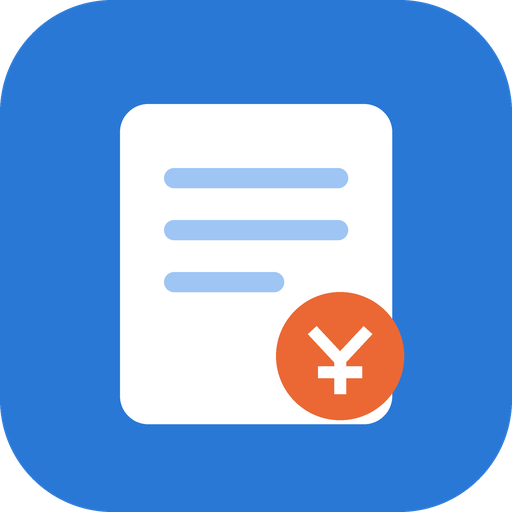
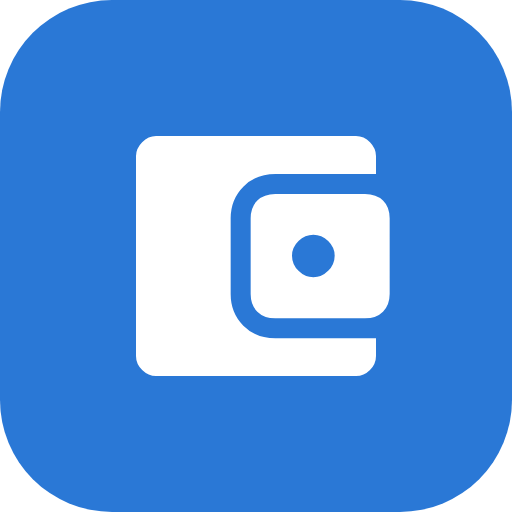
アイコンを Google の Material Symbols にそろえる
- 絵文字（銀行・現金・余り・コピー・注意など）、月の矢印、タブ、チェック、
  追加・並べ替えのアイコンを Material Symbols（Rounded）に置き換える
- 口座のアイコンを丸い背景付きで左の列に出す
- アプリのアイコン（ホーム画面用）を account_balance_wallet で作り直す
- アイコンの形のデータはオフラインでも出るよう index.html に入れる

Claude-Session: https://claude.ai/code/session_01UyJUQVVbfKXTdYzEWyREp5

Changed region(s): [[0.2188, 0.1875, 0.8125, 0.8438]]

diff --git a/index.html b/index.html
@@ -84,18 +84,36 @@ main { max-width: 560px; margin: 0 auto; padding: 12px 16px 24px; }
 .list li + li { border-top: 1px solid var(--grid); }
 .acc { display: flex; align-items: center; gap: 4px; min-height: 64px; }
 .check { flex: none; width: 44px; height: 44px; border: 0; background: none; padding: 0; display: flex; align-items: center; justify-content: center; margin-left: -10px; }
-.check i { width: 26px; height: 26px; border-radius: 13px; border: 2px solid var(--axis); display: flex; align-items: center; justify-content: center; font-style: normal; color: transparent; font-size: 15px; font-weight: 900; }
+.check i { width: 26px; height: 26px; border-radius: 13px; border: 2px solid var(--axis); display: flex; align-items: center; justify-content: center; font-style: normal; }
 .check[aria-checked="true"] i { background: var(--check); border-color: var(--check); color: #fff; }
 .row-btn { flex: 1; min-width: 0; display: flex; align-items: center; gap: 8px; background: none; border: 0; padding: 10px 0; text-align: left; min-height: 56px; }
 .row-btn .t { flex: 1; min-width: 0; }
 .row-btn .n { font-size: 16px; font-weight: 700; }
-.row-btn .n .verb { font-weight: 400; font-size: 14px; color: var(--text-2); margin-left: 4px; }
+.row-btn .n .verb { font-weight: 400; font-size: 14px; color: var(--text-2); margin-left: 4px; white-space: nowrap; display: inline-block; }
 .row-btn .s { font-size: 12px; color: var(--muted); white-space: nowrap; overflow: hidden; text-overflow: ellipsis; }
 .row-btn .a { font-size: 18px; font-weight: 700; white-space: nowrap; }
 .row-btn .a.zero { color: var(--muted); font-weight: 400; }
 .row-btn .go { color: var(--muted); font-size: 20px; }
 .acc[data-done="true"] .a { color: var(--muted); text-decoration: line-through; }
 .item-btn { width: 100%; }
+.ms { width: 1.25em; height: 1.25em; fill: currentColor; flex: none; vertical-align: -0.28em; }
+.icon-btn { display: inline-flex; align-items: center; justify-content: center; }
+.icon-btn .ms { width: 28px; height: 28px; }
+.tabbar button .ms { width: 26px; height: 26px; }
+.tabbar button .ms.on, .tabbar button[aria-current="page"] .ms:not(.on) { display: none; }
+.tabbar button[aria-current="page"] .ms.on { display: block; }
+.acc-ic { width: 32px; height: 32px; border-radius: 16px; background: var(--surface-2); color: var(--accent); display: inline-flex; align-items: center; justify-content: center; margin-right: 2px; vertical-align: middle; flex: none; }
+.acc-ic .ms { width: 20px; height: 20px; vertical-align: 0; }
+.check i .ms { width: 18px; height: 18px; fill: transparent; vertical-align: 0; }
+.check[aria-checked="true"] i .ms { fill: #fff; }
+.add { display: flex; align-items: center; gap: 8px; }
+.add .ms, .btn .ms { width: 22px; height: 22px; vertical-align: 0; }
+.btn { gap: 6px; }
+.sum-row .go.ms { width: 22px; height: 22px; fill: var(--muted); margin-left: 2px; vertical-align: -0.15em; }
+.row-btn .go.ms { width: 22px; height: 22px; fill: var(--muted); }
+.sum-hint .ms { width: 18px; height: 18px; vertical-align: -0.2em; }
+.lbl-ic { display: flex !important; align-items: center; gap: 6px; }
+.lbl-ic .ms { width: 20px; height: 20px; fill: var(--accent); }
 .left-tag { color: var(--good-text); font-weight: 700; margin-right: 6px; }
 .left-field { margin-top: 14px; }
 .hint { color: var(--muted); font-size: 12px; }
@@ -149,9 +167,9 @@ input:focus, select:focus, textarea:focus, button:focus-visible { outline: 2px s
 
 <header class="app-header">
   <div class="month-nav">
-    <button class="icon-btn" id="prevMonth" aria-label="前の月">‹</button>
+    <button class="icon-btn" id="prevMonth" aria-label="前の月"><svg class="ms" viewBox="0 -960 960 960" aria-hidden="true"><path d="m406-481 177 177q9 9 8.5 21t-9.5 21q-9 9-21.5 9t-21.5-9L341-460q-5-5-7-10t-2-11q0-6 2-11t7-10l199-199q9-9 21.5-9t21.5 9q9 9 9 21.5t-9 21.5L406-481Z"/></svg></button>
     <h1><button id="monthLabel" aria-label="今月に戻る"></button></h1>
-    <button class="icon-btn" id="nextMonth" aria-label="次の月">›</button>
+    <button class="icon-btn" id="nextMonth" aria-label="次の月"><svg class="ms" viewBox="0 -960 960 960" aria-hidden="true"><path d="M530-481 353-658q-9-9-8.5-21t9.5-21q9-9 21.5-9t21.5 9l198 198q5 5 7 10t2 11q0 6-2 11t-7 10L396-261q-9 9-21 8.5t-21-9.5q-9-9-9-21.5t9-21.5l176-176Z"/></svg></button>
   </div>
 </header>
 
@@ -162,10 +180,8 @@ input:focus, select:focus, textarea:focus, button:focus-visible { outline: 2px s
 
 <nav class="tabbar" aria-label="メニュー">
   <ul>
-    <li><button data-view="plan" aria-current="page">
-      <svg viewBox="0 0 24 24" fill="none" stroke="currentColor" stroke-width="2" stroke-linecap="round" stroke-linejoin="round" aria-hidden="true"><rect x="4" y="3" width="16" height="18" rx="2"/><path d="M8 8h8M8 12h8M8 16h5"/></svg>今月</button></li>
-    <li><button data-view="settings">
-      <svg viewBox="0 0 24 24" fill="none" stroke="currentColor" stroke-width="2" stroke-linecap="round" aria-hidden="true"><path d="M4 6h16M4 12h16M4 18h16"/><circle cx="9" cy="6" r="2" fill="var(--surface)"/><circle cx="15" cy="12" r="2" fill="var(--surface)"/><circle cx="7" cy="18" r="2" fill="var(--surface)"/></svg>設定</button></li>
+    <li><button data-view="plan" aria-current="page"><svg class="ms" viewBox="0 -960 960 960" aria-hidden="true"><path d="M180-80q-24 0-42-18t-18-42v-620q0-24 18-42t42-18h65v-28q0-13.6 9.2-22.8 9.2-9.2 22.8-9.2 14.02 0 23.51 9.2Q310-861.6 310-848v28h340v-28q0-13.6 9.2-22.8 9.2-9.2 22.8-9.2 14.03 0 23.51 9.2Q715-861.6 715-848v28h65q24 0 42 18t18 42v620q0 24-18 42t-42 18H180Zm0-60h600v-430H180v430Zm0-490h600v-130H180v130Zm0 0v-130 130Zm300 230q-17 0-28.5-11.5T440-440q0-17 11.5-28.5T480-480q17 0 28.5 11.5T520-440q0 17-11.5 28.5T480-400Zm-160 0q-17 0-28.5-11.5T280-440q0-17 11.5-28.5T320-480q17 0 28.5 11.5T360-440q0 17-11.5 28.5T320-400Zm320 0q-17 0-28.5-11.5T600-440q0-17 11.5-28.5T640-480q17 0 28.5 11.5T680-440q0 17-11.5 28.5T640-400ZM480-240q-17 0-28.5-11.5T440-280q0-17 11.5-28.5T480-320q17 0 28.5 11.5T520-280q0 17-11.5 28.5T480-240Zm-160 0q-17 0-28.5-11.5T280-280q0-17 11.5-28.5T320-320q17 0 28.5 11.5T360-280q0 17-11.5 28.5T320-240Zm320 0q-17 0-28.5-11.5T600-280q0-17 11.5-28.5T640-320q17 0 28.5 11.5T680-280q0 17-11.5 28.5T640-240Z"/></svg><svg class="ms on" viewBox="0 -960 960 960" aria-hidden="true"><path d="M180-80q-24 0-42-18t-18-42v-620q0-24 18-42t42-18h65v-28q0-13.6 9.2-22.8 9.2-9.2 22.8-9.2 14.02 0 23.51 9.2Q310-861.6 310-848v28h340v-28q0-13.6 9.2-22.8 9.2-9.2 22.8-9.2 14.03 0 23.51 9.2Q715-861.6 715-848v28h65q24 0 42 18t18 42v620q0 24-18 42t-42 18H180Zm0-60h600v-430H180v430Zm300-260q-17 0-28.5-11.5T440-440q0-17 11.5-28.5T480-480q17 0 28.5 11.5T520-440q0 17-11.5 28.5T480-400Zm-160 0q-17 0-28.5-11.5T280-440q0-17 11.5-28.5T320-480q17 0 28.5 11.5T360-440q0 17-11.5 28.5T320-400Zm320 0q-17 0-28.5-11.5T600-440q0-17 11.5-28.5T640-480q17 0 28.5 11.5T680-440q0 17-11.5 28.5T640-400ZM480-240q-17 0-28.5-11.5T440-280q0-17 11.5-28.5T480-320q17 0 28.5 11.5T520-280q0 17-11.5 28.5T480-240Zm-160 0q-17 0-28.5-11.5T280-280q0-17 11.5-28.5T320-320q17 0 28.5 11.5T360-280q0 17-11.5 28.5T320-240Zm320 0q-17 0-28.5-11.5T600-280q0-17 11.5-28.5T640-320q17 0 28.5 11.5T680-280q0 17-11.5 28.5T640-240Z"/></svg>今月</button></li>
+    <li><button data-view="settings"><svg class="ms" viewBox="0 -960 960 960" aria-hidden="true"><path d="M421-80q-14 0-25-9t-13-23l-15-94q-19-7-40-19t-37-25l-86 40q-14 6-28 1.5T155-226L97-330q-8-13-4.5-27t15.5-23l80-59q-2-9-2.5-20.5T185-480q0-9 .5-20.5T188-521l-80-59q-12-9-15.5-23t4.5-27l58-104q8-13 22-17.5t28 1.5l86 40q16-13 37-25t40-18l15-95q2-14 13-23t25-9h118q14 0 25 9t13 23l15 94q19 7 40.5 18.5T669-710l86-40q14-6 27.5-1.5T804-734l59 104q8 13 4.5 27.5T852-580l-80 57q2 10 2.5 21.5t.5 21.5q0 10-.5 21t-2.5 21l80 58q12 8 15.5 22.5T863-330l-58 104q-8 13-22 17.5t-28-1.5l-86-40q-16 13-36.5 25.5T592-206l-15 94q-2 14-13 23t-25 9H421Zm15-60h88l14-112q33-8 62.5-25t53.5-41l106 46 40-72-94-69q4-17 6.5-33.5T715-480q0-17-2-33.5t-7-33.5l94-69-40-72-106 46q-23-26-52-43.5T538-708l-14-112h-88l-14 112q-34 7-63.5 24T306-642l-106-46-40 72 94 69q-4 17-6.5 33.5T245-480q0 17 2.5 33.5T254-413l-94 69 40 72 106-46q24 24 53.5 41t62.5 25l14 112Zm44-210q54 0 92-38t38-92q0-54-38-92t-92-38q-54 0-92 38t-38 92q0 54 38 92t92 38Zm0-130Z"/></svg><svg class="ms on" viewBox="0 -960 960 960" aria-hidden="true"><path d="M421-80q-14 0-25-9t-13-23l-15-94q-19-7-40-19t-37-25l-86 40q-14 6-28 1.5T155-226L97-330q-8-13-4.5-27t15.5-23l80-59q-2-9-2.5-20.5T185-480q0-9 .5-20.5T188-521l-80-59q-12-9-15.5-23t4.5-27l58-104q8-13 22-17.5t28 1.5l86 40q16-13 37-25t40-18l15-95q2-14 13-23t25-9h118q14 0 25 9t13 23l15 94q19 7 40.5 18.5T669-710l86-40q14-6 27.5-1.5T804-734l59 104q8 13 4.5 27.5T852-580l-80 57q2 10 2.5 21.5t.5 21.5q0 10-.5 21t-2.5 21l80 58q12 8 15.5 22.5T863-330l-58 104q-8 13-22 17.5t-28-1.5l-86-40q-16 13-36.5 25.5T592-206l-15 94q-2 14-13 23t-25 9H421Zm59-270q54 0 92-38t38-92q0-54-38-92t-92-38q-54 0-92 38t-38 92q0 54 38 92t92 38Z"/></svg>設定</button></li>
   </ul>
 </nav>
 
@@ -185,7 +201,10 @@ input:focus, select:focus, textarea:focus, button:focus-visible { outline: 2px s
    ========================================================= */
 const STORAGE_KEY = 'kakeibo.v2';
 const THEME_KEY = 'kakeibo.theme';
-const KIND = { bank: { label: '銀行口座', icon: '🏦' }, cash: { label: '現金（手持ち）', icon: '💴' } };
+// アイコンは Google の Material Symbols（Rounded・Apache License 2.0）
+const ICONS = {"arrow_upward": "M450-686 223-459q-9 9-21 9t-21-9q-9-9-9-21t9-21l278-278q5-5 10-7t11-2q6 0 11 2t10 7l278 278q9 9 9 21t-9 21q-9 9-21 9t-21-9L510-686v496q0 13-8.5 21.5T480-160q-13 0-21.5-8.5T450-190v-496Z", "account_balance": "M212-271v-279q0-12.75 8.68-21.38 8.67-8.62 21.5-8.62 12.82 0 21.32 8.62 8.5 8.63 8.5 21.38v279q0 12.75-8.68 21.37-8.67 8.63-21.5 8.63-12.82 0-21.32-8.63-8.5-8.62-8.5-21.37Zm242 0v-279q0-12.75 8.68-21.38 8.67-8.62 21.5-8.62 12.82 0 21.32 8.62 8.5 8.63 8.5 21.38v279q0 12.75-8.68 21.37-8.67 8.63-21.5 8.63-12.82 0-21.32-8.63-8.5-8.62-8.5-21.37ZM110-121q-12.75 0-21.37-8.68-8.63-8.67-8.63-21.5 0-12.82 8.63-21.32Q97.25-181 110-181h740q12.75 0 21.38 8.68 8.62 8.67 8.62 21.5 0 12.82-8.62 21.32-8.63 8.5-21.38 8.5H110Zm578-150v-279q0-12.75 8.68-21.38 8.67-8.62 21.5-8.62 12.82 0 21.32 8.62 8.5 8.63 8.5 21.38v279q0 12.75-8.68 21.37-8.67 8.63-21.5 8.63-12.82 0-21.32-8.63-8.5-8.62-8.5-21.37Zm166-369H103q-9.58 0-16.29-6.71Q80-653.42 80-663v-17q0-6 3.5-11.5T92-700l358-204q14.17-8 30-8t30 8l357 203q6 4 9.5 10t3.5 13.5v10.23q0 11.59-7.47 19.43Q865.05-640 854-640Zm-640-60h532-532Zm0 0h532L480-852 214-700Z", "payments": "M540-420q-50 0-85-35t-35-85q0-50 35-85t85-35q50 0 85 35t35 85q0 50-35 85t-85 35ZM220-280q-24.75 0-42.37-17.63Q160-315.25 160-340v-400q0-24.75 17.63-42.38Q195.25-800 220-800h640q24.75 0 42.38 17.62Q920-764.75 920-740v400q0 24.75-17.62 42.37Q884.75-280 860-280H220Zm100-60h440q0-42 29-71t71-29v-200q-42 0-71-29t-29-71H320q0 42-29 71t-71 29v200q42 0 71 29t29 71Zm450 180H100q-24.75 0-42.37-17.63Q40-195.25 40-220v-430q0-12.75 8.68-21.38 8.67-8.62 21.5-8.62 12.82 0 21.32 8.62 8.5 8.63 8.5 21.38v430h670q12.75 0 21.38 8.68 8.62 8.67 8.62 21.5 0 12.82-8.62 21.32-8.63 8.5-21.38 8.5ZM220-340v-400 400Z", "help": "M484.03-247Q500-247 511-258.03q11-11.03 11-27T510.97-312q-11.03-11-27-11T457-311.97q-11 11.03-11 27T457.03-258q11.03 11 27 11Zm-3.76 167q-82.74 0-155.5-31.5Q252-143 197.5-197.5t-86-127.34Q80-397.68 80-480.5t31.5-155.66Q143-709 197.5-763t127.34-85.5Q397.68-880 480.5-880t155.66 31.5Q709-817 763-763t85.5 127Q880-563 880-480.27q0 82.74-31.5 155.5Q817-252 763-197.68q-54 54.31-127 86Q563-80 480.27-80Zm.23-60Q622-140 721-239.5t99-241Q820-622 721.19-721T480-820q-141 0-240.5 98.81T140-480q0 141 99.5 240.5t241 99.5Zm-.5-340Zm2.77-180Q513-660 536-641.5q23 18.5 23 47.2 0 26.3-15.65 45.73Q527.7-529.14 508-512q-23 19-40 42.38-17 23.39-17 52.62 0 11 8.4 17.5T479-393q12 0 19.88-8 7.87-8 10.12-20 3-21 16-38t30.23-30.78Q580-510 596-537q16-27 16-58.61 0-50.39-37.5-83.89T485.55-713Q450-713 417-698t-54 44q-7 10-6.5 21.5t9.47 18.5q11.41 8 23.65 5 12.23-3 20.38-14 12.75-17.9 31.88-27.45Q461-660 482.77-660Z", "savings": "M230-120q-21 0-39.49-13.96Q172.02-147.93 166-168q-25-86-41.54-148.46-16.54-62.46-26.37-109.68-9.82-47.22-13.95-83.79Q80-546.49 80-580q0-92 64-156t156-64h200q27-36 68.5-58t91.5-22q25 0 42.5 17.5T720-820q0 6-1.5 12t-3.5 11q-4 11-7.5 22t-5.5 24l91 91h57q12.75 0 21.38 8.62Q880-642.75 880-630v227q0 10.24-5.5 18.12Q869-377 859-374l-91.93 30.3L713-163q-6.03 19.61-21.84 31.31Q675.34-120 655-120H540q-24.75 0-42.37-17.63Q480-155.25 480-180v-20h-80v20q0 24.75-17.62 42.37Q364.75-120 340-120H230Zm-5-60h115v-80h200v80h115l63-210 102-35v-175h-52L640-728q1-17 5.5-41.5T658-824q-43 11-76 33t-48 51H300q-66.29 0-113.14 46.86Q140-646.29 140-580q0 42 22 146.5T225-180Zm415-340q17 0 28.5-11.5T680-560q0-17-11.5-28.5T640-600q-17 0-28.5 11.5T600-560q0 17 11.5 28.5T640-520ZM490-620q12.75 0 21.38-8.68 8.62-8.67 8.62-21.5 0-12.82-8.62-21.32-8.63-8.5-21.38-8.5H350q-12.75 0-21.37 8.68-8.63 8.67-8.63 21.5 0 12.82 8.63 21.32 8.62 8.5 21.37 8.5h140Zm-10 118Z", "content_copy": "M300-200q-24 0-42-18t-18-42v-560q0-24 18-42t42-18h440q24 0 42 18t18 42v560q0 24-18 42t-42 18H300Zm0-60h440v-560H300v560ZM180-80q-24 0-42-18t-18-42v-590q0-12.75 8.68-21.38 8.67-8.62 21.5-8.62 12.82 0 21.32 8.62 8.5 8.63 8.5 21.38v590h470q12.75 0 21.38 8.68 8.62 8.67 8.62 21.5 0 12.82-8.62 21.32Q662.75-80 650-80H180Zm120-180v-560 560Z", "warning": "M92-120q-9 0-15.65-4.13Q69.7-128.25 66-135q-4.17-6.6-4.58-14.3Q61-157 66-165l388-670q5-8 11.5-11.5T480-850q8 0 14.5 3.5T506-835l388 670q5 8 4.58 15.7-.41 7.7-4.58 14.3-3.7 6.75-10.35 10.87Q877-120 868-120H92Zm52-60h672L480-760 144-180Zm340.18-57q12.82 0 21.32-8.68 8.5-8.67 8.5-21.5 0-12.82-8.68-21.32-8.67-8.5-21.5-8.5-12.82 0-21.32 8.68-8.5 8.67-8.5 21.5 0 12.82 8.68 21.32 8.67 8.5 21.5 8.5Zm0-111q12.82 0 21.32-8.63 8.5-8.62 8.5-21.37v-164q0-12.75-8.68-21.38-8.67-8.62-21.5-8.62-12.82 0-21.32 8.62-8.5 8.63-8.5 21.38v164q0 12.75 8.68 21.37 8.67 8.63 21.5 8.63ZM480-470Z", "add": "M450-450H230q-12.75 0-21.37-8.68-8.63-8.67-8.63-21.5 0-12.82 8.63-21.32 8.62-8.5 21.37-8.5h220v-220q0-12.75 8.68-21.38 8.67-8.62 21.5-8.62 12.82 0 21.32 8.62 8.5 8.63 8.5 21.38v220h220q12.75 0 21.38 8.68 8.62 8.67 8.62 21.5 0 12.82-8.62 21.32-8.63 8.5-21.38 8.5H510v220q0 12.75-8.68 21.37-8.67 8.63-21.5 8.63-12.82 0-21.32-8.63-8.5-8.62-8.5-21.37v-220Z", "chevron_right": "M530-481 353-658q-9-9-8.5-21t9.5-21q9-9 21.5-9t21.5 9l198 198q5 5 7 10t2 11q0 6-2 11t-7 10L396-261q-9 9-21 8.5t-21-9.5q-9-9-9-21.5t9-21.5l176-176Z", "check": "m378-332 363-363q9.27-9 21.64-9 12.36 0 21.36 9.05 9 9.06 9 21.5 0 12.45-9 21.45L399-267q-9 9-21 9t-21-9L175-449q-9-9.07-8.5-21.53.5-12.47 9.55-21.47 9.06-9 21.5-9 12.45 0 21.45 9l159 160Z"};
+const ic = (name, cls) => '<svg class="ms' + (cls ? ' ' + cls : '') + '" viewBox="0 -960 960 960" aria-hidden="true"><path d="' + ICONS[name] + '"/></svg>';
+const KIND = { bank: { label: '銀行口座', icon: 'account_balance' }, cash: { label: '現金（手持ち）', icon: 'payments' } };
 
 function defaultState() {
   return { version: 4, accounts: [{ id: 'a_cash', name: '手持ち', kind: 'cash' }], months: {}, roundUnit: 1000 };
@@ -371,21 +390,21 @@ function renderPlan() {
   const rows = rowsOf(m);
   box.innerHTML =
     '<div class="card num">' +
-      '<button class="sum-row" id="openIncome"><span>入ってくる</span><b>' + yen(t.inc) + '<span class="go">›</span></b></button>' +
+      '<button class="sum-row" id="openIncome"><span>入ってくる</span><b>' + yen(t.inc) + ic('chevron_right', 'go') + '</b></button>' +
       '<div class="sum-row"><span>分ける</span><b>' + yen(t.out) + '</b></div>' +
       '<div class="sum-row rest"><span>のこり</span><b class="' + (t.rest < 0 ? 'neg' : '') + '">' + yen(t.rest) + '</b></div>' +
-      (t.rest < 0 ? '<span class="sum-hint neg">⚠ ' + yen(-t.rest) + ' たりません</span>' : '') +
+      (t.rest < 0 ? '<span class="sum-hint neg">' + ic('warning') + ' ' + yen(-t.rest) + ' たりません</span>' : '') +
     '</div>' +
     '<div class="card"><ul class="list">' + rows.map(r => {
       const done = !!m.done[r.a.id];
-      const icon = KIND[r.a.kind] ? KIND[r.a.kind].icon + ' ' : '❔ ';
+      const icon = '<span class="acc-ic">' + ic(KIND[r.a.kind] ? KIND[r.a.kind].icon : 'help') + '</span>';
       return '<li class="acc" data-done="' + done + '">' +
-        (r.a.id ? '<button class="check" role="checkbox" aria-checked="' + done + '" aria-label="' + esc(r.a.name) + 'に分けた" data-done-acc="' + r.a.id + '"><i>✓</i></button>' : '<span class="check"></span>') +
-        '<button class="row-btn" data-acc="' + r.a.id + '"><span class="t"><div class="n">' + icon + esc(r.a.name) + '<span class="verb">' + r.verb + '</span></div>' +
+        (r.a.id ? '<button class="check" role="checkbox" aria-checked="' + done + '" aria-label="' + esc(r.a.name) + 'に分けた" data-done-acc="' + r.a.id + '"><i>' + ic('check') + '</i></button>' : '<span class="check"></span>') +
+        '<button class="row-btn" data-acc="' + r.a.id + '">' + icon + '<span class="t"><div class="n">' + esc(r.a.name) + '<span class="verb">' + r.verb + '</span></div>' +
         '<div class="s">' + (r.left ? '<span class="left-tag">余り ' + yen(r.left) + ' を引いた額</span>' : '') + esc(r.items.map(i => i.name).join('・')) + '</div></span>' +
-        '<span class="a num' + (r.send ? '' : ' zero') + '">' + yen(r.send) + '</span><span class="go">›</span></button></li>';
-    }).join('') + '</ul><button class="add" id="addOut">＋ 払うものを追加</button><button class="add" id="openLeft">💰 先月の余りを入れる' + (rows.some(r => r.left) ? '（入力済み）' : '') + '</button></div>' +
-    (latestMonthBefore(viewMonth) ? '<button class="btn" id="copyPrev">📋 先月の「毎月入れる」ものを入れ直す</button>' : '');
+        '<span class="a num' + (r.send ? '' : ' zero') + '">' + yen(r.send) + '</span>' + ic('chevron_right', 'go') + '</button></li>';
+    }).join('') + '</ul><button class="add" id="addOut">' + ic('add') + '払うものを追加</button><button class="add" id="openLeft">' + ic('savings') + '先月の余りを入れる' + (rows.some(r => r.left) ? '（入力済み）' : '') + '</button></div>' +
+    (latestMonthBefore(viewMonth) ? '<button class="btn" id="copyPrev">' + ic('content_copy') + '先月の「毎月入れる」ものを入れ直す</button>' : '');
 
   $('openIncome').addEventListener('click', () => incomeSheet());
   box.querySelectorAll('[data-done-acc]').forEach(b => b.addEventListener('click', () => { const id = b.dataset.doneAcc; if (m.done[id]) delete m.done[id]; else m.done[id] = true; save(); renderPlan(); }));
@@ -394,7 +413,7 @@ function renderPlan() {
   $('openLeft').addEventListener('click', () => leftSheet());
   if ($('copyPrev')) $('copyPrev').addEventListener('click', async () => {
     const prev = latestMonthBefore(viewMonth);
-    const ok = await ask(monthLabel(prev) + 'の「毎月入れる」ものを入れ直しますか？', monthLabel(viewMonth) + 'の内容が、' + monthLabel(prev) + 'の「毎月入れる」ものと同じ金額になります。「今月だけ」のものは消え、✓ は外れます。',
+    const ok = await ask(monthLabel(prev) + 'の「毎月入れる」ものを入れ直しますか？', monthLabel(viewMonth) + 'の内容が、' + monthLabel(prev) + 'の「毎月入れる」ものと同じ金額になります。「今月だけ」のものは消え、チェックは外れます。',
       [{ label: 'コピーする', value: true, cls: 'primary' }, { label: 'やめる', value: false }]);
     if (ok !== true) return;
     copyMonth(viewMonth, prev); render(); toast(monthLabel(prev) + 'から入れ直しました');
@@ -407,7 +426,7 @@ function incomeSheet() {
   const t = totals(m);
   openSheet('入ってくるお金 ' + yen(t.inc), '',
     '<ul class="list">' + m.income.map(i => itemRow(i, accountById(i.acc) ? accountById(i.acc).name + 'に入る' : '')).join('') + '</ul>' +
-    '<button class="add" id="sAdd">＋ 入ってくるお金を追加</button><div class="btn-col" style="margin-top:8px"><button class="btn" id="sClose">閉じる</button></div>');
+    '<button class="add" id="sAdd">' + ic('add') + '入ってくるお金を追加</button><div class="btn-col" style="margin-top:8px"><button class="btn" id="sClose">閉じる</button></div>');
   bindItems('income', incomeSheet);
   $('sAdd').addEventListener('click', () => editItem('income', null, '', incomeSheet));
   $('sClose').addEventListener('click', () => { closeSheet(); render(); });
@@ -427,7 +446,7 @@ function leftSheet() {
     '<form id="lForm" autocomplete="off">' + rows.map(r => {
       const pr = prevRows.find(x => x.a.id === r.a.id);
       const extra = pr ? pr.send - Math.max(0, pr.total - pr.left) : 0;   // 先月、繰り上げで多めに入れた分
-      return '<label class="field"><span>' + KIND[r.a.kind].icon + ' ' + esc(r.a.name) + (r.a.kind === 'cash' ? '（手元の現金）' : '') + (extra > 0 ? '<small class="hint">　先月の繰り上げ分 ' + yen(extra) + '</small>' : '') + '</span><div class="big-amount small"><input type="text" inputmode="numeric" data-left="' + r.a.id + '" value="' + fmtInput(r.left) + '" placeholder="0"><span class="yen">円</span></div></label>';
+      return '<label class="field"><span class="lbl-ic">' + ic(KIND[r.a.kind].icon) + esc(r.a.name) + (r.a.kind === 'cash' ? '（手元の現金）' : '') + (extra > 0 ? '<small class="hint">　先月の繰り上げ分 ' + yen(extra) + '</small>' : '') + '</span><div class="big-amount small"><input type="text" inputmode="numeric" data-left="' + r.a.id + '" value="' + fmtInput(r.left) + '" placeholder="0"><span class="yen">円</span></div></label>';
     }).join('') +
     '<div class="btn-col"><button class="btn primary">保存する</button><button type="button" class="btn" id="lBack">戻る</button></div></form>');
   $('modal').querySelectorAll('[data-left]').forEach(amountInput);
@@ -447,9 +466,9 @@ function accountSheet(accId) {
   const how = accId && (r.left || r.send !== r.total) ? '払うもの ' + yen(r.total) + (r.left ? ' − 余り ' + yen(r.left) : '') + (r.send !== Math.max(0, r.total - r.left) ? '（' + nf.format(state.roundUnit) + '円単位で繰り上げ）' : '') : '';
   openSheet(r.a.name + ' ' + r.verb + ' ' + yen(r.send), how + (accId ? '' : 'タップして口座を選んでください'),
     '<ul class="list">' + r.items.map(i => itemRow(i, i.memo)).join('') + '</ul>' +
-    (accId ? '<button class="add" id="sAdd">＋ ' + esc(r.a.name) + 'から払うものを追加</button>' +
+    (accId ? '<button class="add" id="sAdd">' + ic('add') + esc(r.a.name) + 'から払うものを追加</button>' +
       '<label class="field left-field"><span>先月の余り（' + (r.a.kind === 'cash' ? '手元に残っている現金' : 'この口座に残っている額') + '）</span><div class="big-amount"><input type="text" inputmode="numeric" id="sLeft" value="' + fmtInput(r.left) + '" placeholder="0"><span class="yen">円</span></div></label>' : '') +
-    '<div class="btn-col" style="margin-top:8px">' + (accId ? '<button class="btn' + (done ? ' done-on' : '') + '" id="sDone">' + (done ? '✓ 分けた' : 'まだ分けていない（タップで ✓）') + '</button>' : '') +
+    '<div class="btn-col" style="margin-top:8px">' + (accId ? '<button class="btn' + (done ? ' done-on' : '') + '" id="sDone">' + (done ? ic('check') + '分けた' : 'まだ分けていない（タップで完了）') + '</button>' : '') +
     '<button class="btn" id="sClose">閉じる</button></div>');
   bindItems('out', () => accountSheet(accId));
   if (accId) {
@@ -505,7 +524,7 @@ function editItem(kind, id, presetAcc, back) {
     '<form id="iForm" autocomplete="off">' +
     '<label class="field"><span>なまえ</span><input type="text" id="iName" list="dlNames" maxlength="40" value="' + esc(v.name) + '" placeholder="' + (kind === 'income' ? '例：夫給与' : '例：電気代') + '"></label>' +
     '<label class="field"><span>金額</span><div class="big-amount"><input type="text" inputmode="numeric" id="iAmount" value="' + fmtInput(v.amount) + '" placeholder="0"><span class="yen">円</span></div></label>' +
-    '<label class="field"><span>' + (kind === 'income' ? '入る口座' : 'どの口座から払う？') + '</span><select id="iAcc"><option value="">決めない</option>' + state.accounts.map(a => '<option value="' + a.id + '"' + (a.id === v.acc ? ' selected' : '') + '>' + KIND[a.kind].icon + ' ' + esc(a.name) + '</option>').join('') + '</select></label>' +
+    '<label class="field"><span>' + (kind === 'income' ? '入る口座' : 'どの口座から払う？') + '</span><select id="iAcc"><option value="">決めない</option>' + state.accounts.map(a => '<option value="' + a.id + '"' + (a.id === v.acc ? ' selected' : '') + '>' + esc(a.name) + '</option>').join('') + '</select></label>' +
     '<label class="field"><span>メモ</span><input type="text" id="iMemo" maxlength="100" value="' + esc(v.memo) + '"></label>' +
     '<label class="check-row"><input type="checkbox" id="iFixed"' + (v.fixed === false ? '' : ' checked') + '>毎月入れる（来月も自動で入る）</label>' +
     '<div class="btn-col"><button class="btn primary">保存する</button>' + (it ? '<button type="button" class="btn danger" id="iDel">消す</button>' : '') + '<button type="button" class="btn" id="iBack">戻る</button></div></form>');
@@ -534,9 +553,9 @@ function renderSettings() {
   const box = $('view-settings');
   box.innerHTML =
     '<div class="card"><h2>口座</h2><ul class="set-list">' + state.accounts.map((a, i) =>
-      '<li><span>' + KIND[a.kind].icon + '</span><span class="grow"><div>' + esc(a.name) + '</div><div class="sub">' + KIND[a.kind].label + '</div></span>' +
-      '<button class="btn small" data-up="' + i + '"' + (i ? '' : ' disabled') + ' aria-label="上へ">↑</button><button class="btn small" data-edit="' + i + '">変える</button></li>').join('') + '</ul>' +
-    '<button class="btn" id="addAcc" style="margin-bottom:8px">＋ 口座を追加</button></div>' +
+      '<li><span class="acc-ic">' + ic(KIND[a.kind].icon) + '</span><span class="grow"><div>' + esc(a.name) + '</div><div class="sub">' + KIND[a.kind].label + '</div></span>' +
+      '<button class="btn small" data-up="' + i + '"' + (i ? '' : ' disabled') + ' aria-label="上へ">' + ic('arrow_upward') + '</button><button class="btn small" data-edit="' + i + '">変える</button></li>').join('') + '</ul>' +
+    '<button class="btn" id="addAcc" style="margin-bottom:8px">' + ic('add') + '口座を追加</button></div>' +
     '<div class="card"><h2>データ</h2><p class="note">データはこのスマホの中だけにあります。機種変更やブラウザのデータ消去で消えるので、月に1回「バックアップ」を押して保存してください。</p><div class="btn-col" style="margin-bottom:8px">' +
       '<button class="btn primary" id="expJson">バックアップ（ファイルに保存）</button>' +
       '<button class="btn" id="impJson">バックアップから戻す</button>' +
@@ -562,7 +581,7 @@ function renderSettings() {
 function editAccount(a) {
   openSheet(a ? '口座を変える' : '口座を追加', '',
     '<form id="aForm" autocomplete="off"><label class="field"><span>なまえ</span><input type="text" id="aName" maxlength="30" value="' + esc(a ? a.name : '') + '" placeholder="例：夫ゆうちょ"></label>' +
-    '<label class="field"><span>種類</span><select id="aKind">' + Object.keys(KIND).map(k => '<option value="' + k + '"' + ((a ? a.kind : 'bank') === k ? ' selected' : '') + '>' + KIND[k].icon + ' ' + KIND[k].label + '</option>').join('') + '</select></label>' +
+    '<label class="field"><span>種類</span><select id="aKind">' + Object.keys(KIND).map(k => '<option value="' + k + '"' + ((a ? a.kind : 'bank') === k ? ' selected' : '') + '>' + KIND[k].label + '</option>').join('') + '</select></label>' +
     '<div class="btn-col"><button class="btn primary">保存する</button>' + (a ? '<button type="button" class="btn danger" id="aDel">この口座を消す</button>' : '') + '<button type="button" class="btn" id="aBack">戻る</button></div></form>');
   $('aBack').addEventListener('click', () => closeSheet());
   if (a) $('aDel').addEventListener('click', async () => {

diff --git a/sw.js b/sw.js
@@ -1,6 +1,6 @@
 // オフラインでも開けるようにアプリ本体をキャッシュする。
 // index.html などを更新したら CACHE の番号を上げること。
-const CACHE = 'kakeibo-v10';
+const CACHE = 'kakeibo-v11';
 const ASSETS = [
   './',
   './index.html',

diff --git a/README.md b/README.md
@@ -64,6 +64,11 @@
 | `index.html` | アプリ本体（画面・処理すべて） |
 | `manifest.webmanifest` | ホーム画面に追加したときの名前・アイコン |
 | `sw.js` | オフラインで開けるようにするキャッシュ |
-| `icons/` | アプリのアイコン |
+| `icons/` | アプリのアイコン（Google の Material Symbols「account_balance_wallet」から作成） |
 
 `index.html` を更新したら、`sw.js` の `CACHE` の番号を上げてください（今は `kakeibo-v4`）。
+
+## アイコンについて
+
+画面とアプリのアイコンは、Google の [Material Symbols](https://fonts.google.com/icons)（Rounded、Apache License 2.0）を使っています。
+オフラインでも表示できるよう、アイコンの形のデータを `index.html` の中に入れています。
